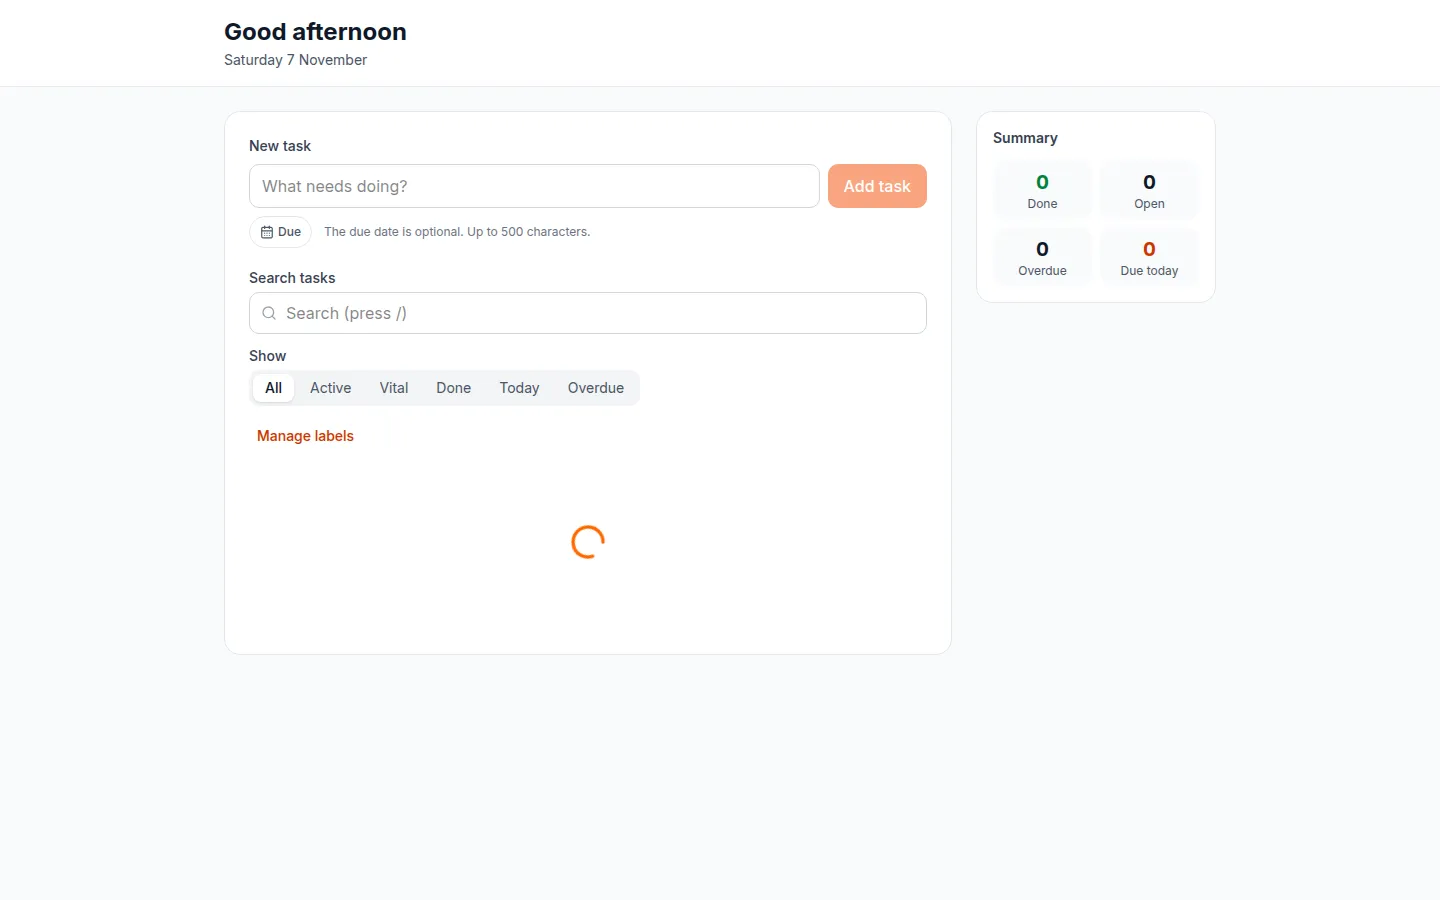
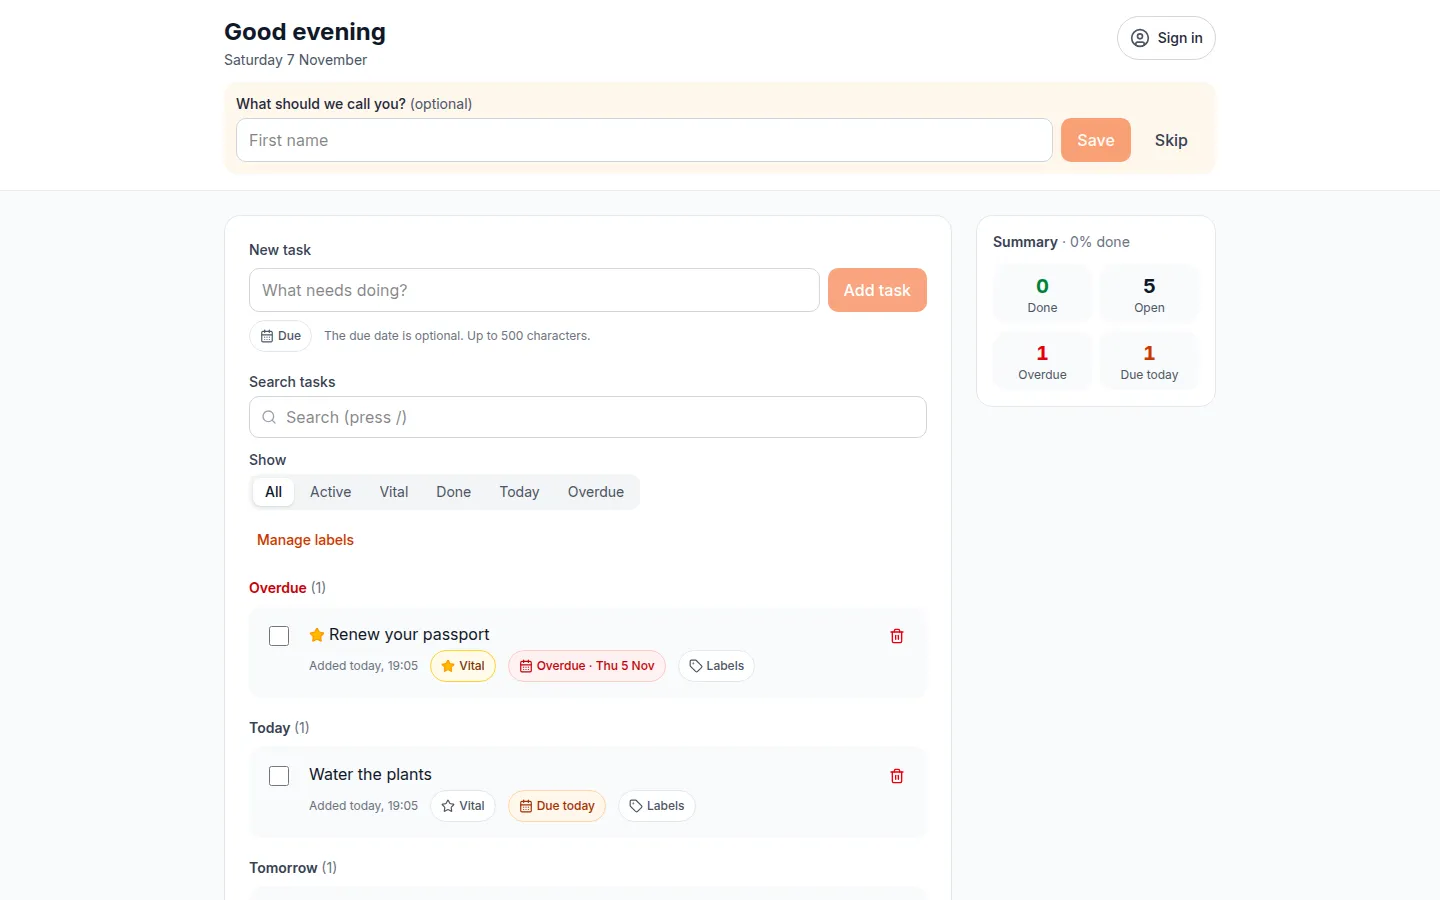
Capture in real time; seamless renal loop
- scripts/capture.mjs drives Chromium over the DevTools protocol and waits
  in real time instead of using --virtual-time-budget, which never waited
  for IndexedDB. Ready = load event, fonts, and the project's loading text
  ("Loading tasks" for the todo app) absent for a full second; fails with
  the URL and text after 20s, writing nothing.
- Todo screenshot recaptured from production: shows tasks.
- Renal loop connectors start hidden by opacity too, so the loop's first
  and last frames are identical.

diff --git a/src/app/globals.css b/src/app/globals.css
@@ -568,8 +568,12 @@
   30%, 100% { opacity: 0; transform: scaleX(1); }
 }
 
+/* Hidden by opacity as well as by the dash: an undrawn dash still leaves
+   antialiased specks at the path's ends, which made the loop's first frame
+   differ from its last. */
 @keyframes rl-link {
-  0%, 25% { stroke-dashoffset: 1; opacity: 1; }
+  0%, 25% { stroke-dashoffset: 1; opacity: 0; }
+  25.5% { stroke-dashoffset: 1; opacity: 1; }
   32.5%, 90% { stroke-dashoffset: 0; opacity: 1; }
   97.5%, 100% { stroke-dashoffset: 0; opacity: 0; }
 }

diff --git a/docs/decisions.md b/docs/decisions.md
@@ -352,3 +352,10 @@ Feature: the AI evaluation card in Selected work shows PT002's lab row read two 
 Verdict: one server-rendered SVG with CSS keyframes, numbers from the renal snapshot, gated by the motion lease.
 Because: the numbers had to match the write-up and the repo, so the SVG reads them from the same snapshot as the showcase rather than being drawn with typed-in values. CSS keyframes rather than a GSAP timeline: there is nothing to sequence at runtime, and a declarative loop costs no script per frame. The design decision that matters is which frame is the *resting* one. The element's plain styles are the finished frame — both readings and the caption — and the keyframes only apply while motion is allowed and the loop holds the lease. So reduced motion, no JavaScript, a held lease and the moment before it scrolls into view all show the same meaningful still; the alternative (keyframes always on, paused when hidden) would have shown an empty table to anyone with reduced motion. Every track starts and ends invisible, so 100% meets 0% without a seam. The loop joins the lease at a priority between the deck and the tools row, so the foot of the page still has one moving thing at a time. A separate `--wrong` token exists because `--warn` is 2.8:1 on the light theme: fine for a squiggle, not for a label. Measured: Lighthouse on `/` 93–94 against 92–94 for the previous commit, interleaved; CLS unchanged at 0.001.
 Study: "resting state" in animation design — why the frame shown when motion is off should be the one that carries the meaning — and `transform-box: fill-box` for transforming SVG elements around their own box.
+
+## 2026-11-07 — Captures wait in real time, for the page to say it is ready
+Feature: `pnpm capture` kept photographing the todo app mid-load, spinner and all.
+Verdict: drop `--virtual-time-budget`; drive Chromium over the DevTools protocol and wait in real time for the app's own loading text to go.
+Because: virtual time fast-forwards the page's clock rather than waiting — timers and animations finish instantly, but IndexedDB answers on its own schedule and never caught up, so every capture froze before the first read returned (diagnosed by Anthony; the earlier attempt here, a longer budget and a real profile, could not have fixed it). A page is now ready when its load event has fired, fonts are in, and its loading text (`WAIT_FOR_GONE`, "Loading tasks" for the todo app, matched on `textContent` because it is screen-reader-only) has been absent for a full second — absent for a second rather than merely absent, because the text is rendered client-side and is also missing in the instant before the app mounts. A 20 s ceiling fails the run with the URL and the text it waited on, and writes nothing. Each project gets a fresh browser, so one app's storage cannot leak into another's capture. Verified both ways: the live todo app was ready in 2.8 s and the capture shows tasks; a page that never stops loading failed after 20.8 s with that message.
+Also: the renal loop's branch connectors now start hidden by opacity as well as by their dash — an undrawn dash leaves antialiased specks at a path's ends, which made frame 0 differ from frame 239 in the LinkedIn render. First and last frames are now pixel-identical.
+Study: virtual time in headless Chrome — search "Emulation.setVirtualTimePolicy what it does not wait for" — and why "wait for a condition" beats "wait for a duration".
